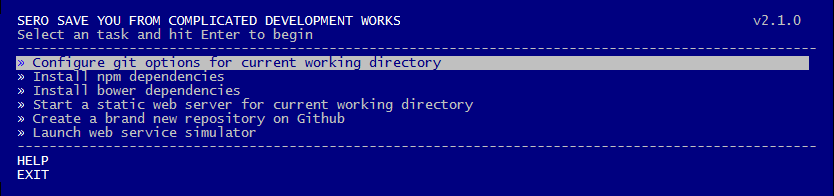
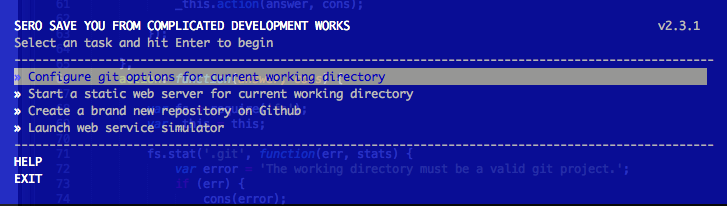
update dependency; update gitconf for more accurate set

diff --git a/bin/tasks/gitconf/Task.js b/bin/tasks/gitconf/Task.js
@@ -3,11 +3,13 @@ var TaskRunner = require('terminal-task-runner');
 var Shell = TaskRunner.shell;
 var Base = TaskRunner.Base;
 
+var isWin = /^win/.test(process.platform);
+
 var configs = [
     'git config --local user.name <%= username %>',
     'git config --local user.email <%= useremail %>',
     'git config --local core.excludesfile $HOME/.gitignore',
-    'git config --local core.autocrlf input',
+    'git config --local core.autocrlf ' + (isWin ? 'true' : 'input'),
     'git config --local color.ui true',
     'git config --local gui.encoding utf-8',
     'git config --local push.default tracking',
@@ -18,6 +20,9 @@ var configs = [
     'git config --local alias.br branch'
 ];
 
+if (isWin) {
+    configs.push('git config --local core.quotepath false');
+}
 
 var Task = Base.extend({
     id: 'GitConfig',
